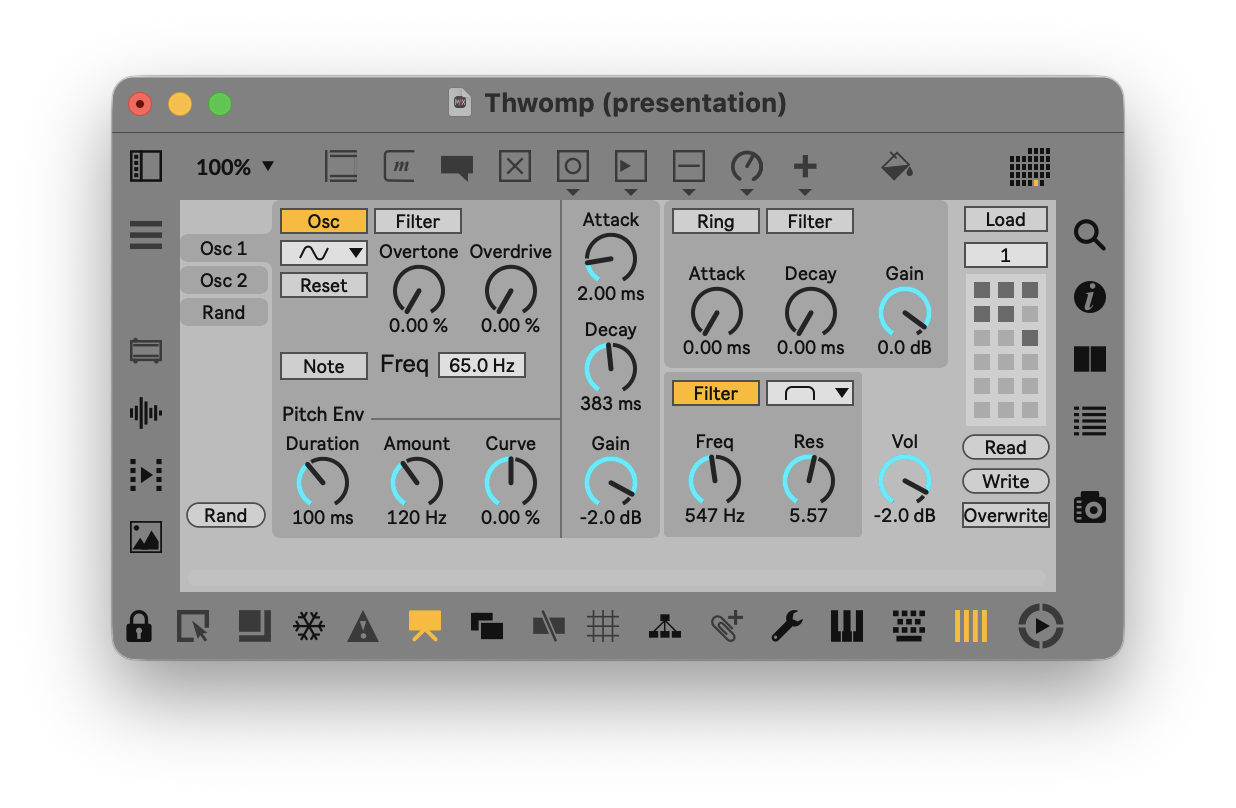
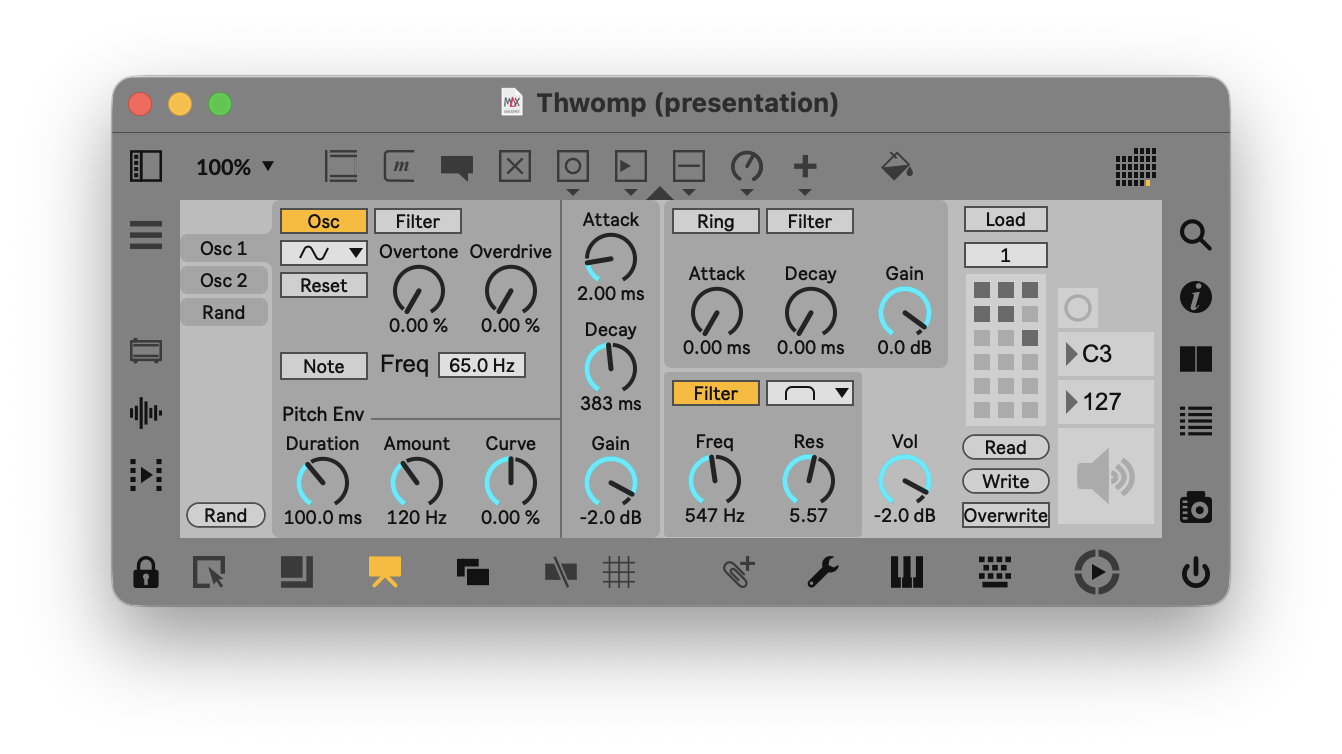
Work on documentation

Changed region(s): [[0.0615, 0.0915, 0.9223, 0.8236], [0.7071, 0.183, 0.7379, 0.2135]]

diff --git a/README.md b/README.md
@@ -30,7 +30,7 @@ Note that this file can be deleted after the device has been added to the `User 
 
 Drag the frozen `Thwomp.amxd` to the `User Library` (e.g., under `User Library/Presets/Instruments/Max Instrument/`).
 
-### Installing in Ableton Push standalone mode
+### Installing in Ableton Push Standalone Mode
 
 1. Launch Push in standalone mode
 2. In Live's sidebar, select `Places > Push`
@@ -42,6 +42,8 @@ After Thwomp has been installed in the Push `User Library`, the device can be ad
 
 ## Opening in Max Directly
 
+![Thwomp in Max](assets/max.png)
+
 To open in Max directly without Live, open `Thwomp/Thwomp.maxpat`, Thwomp has some some additional features when opened outside of Live:
 
 - **Button**: Trigger the MIDI note
@@ -50,12 +52,7 @@ To open in Max directly without Live, open `Thwomp/Thwomp.maxpat`, Thwomp has so
 - DAC Toggle: Toggles whether the audio engine is on
 - Typing the letter "s" plays the note
 
-## Global Parameters
-
-- **Volume**: The volume of all of the oscillators combined.
-- Oscillator Tabs 1-4: Select an oscillator
-
-### Presets
+## Presets
 
 - **Load**: Toggle whether selecting a preset automatically loads it (this will also load the current selected preset)
 - **Select**: Choose the selected preset
@@ -66,9 +63,14 @@ To open in Max directly without Live, open `Thwomp/Thwomp.maxpat`, Thwomp has so
 - To save a preset, shift-click a box
 - To delete a preset, shift-option-click a box
 
-## Oscillator Parameters
+## Parameter Reference
 
-### Waveform
+### Global
+
+- **Vol**: The volume of all of the oscillators combined.
+- Oscillator Tabs 1-4: Select an oscillator
+
+### Oscillator
 
 - **Osc** Toggle: Toggle the oscillator on or off
 - Waveform: The waveform of the oscillator
@@ -76,12 +78,13 @@ To open in Max directly without Live, open `Thwomp/Thwomp.maxpat`, Thwomp has so
 - **Note** Toggle: Toggle whether to use the incoming MIDI note frequency (when off, the frequency is specified by the **Freq** control)
 - **Freq**: Specify a frequency (only visible when **note** is off)
 - **Semi**: Specify a semitone offset (only visible when **note** is on)
+- **Filter**: Toggle whether the oscillator is routed through the filer
 
 ### Pitch Envelope
 
-- **PchDur**: Pitch envelope duration
-- **PchCur**: Pitch envelope curve
-- **PchAmt**: Pitch envelope amount
+- **Duration**: Pitch envelope duration
+- **Curve**: Pitch envelope curve
+- **Amount**: Pitch envelope amount
 
 ### Filter
 